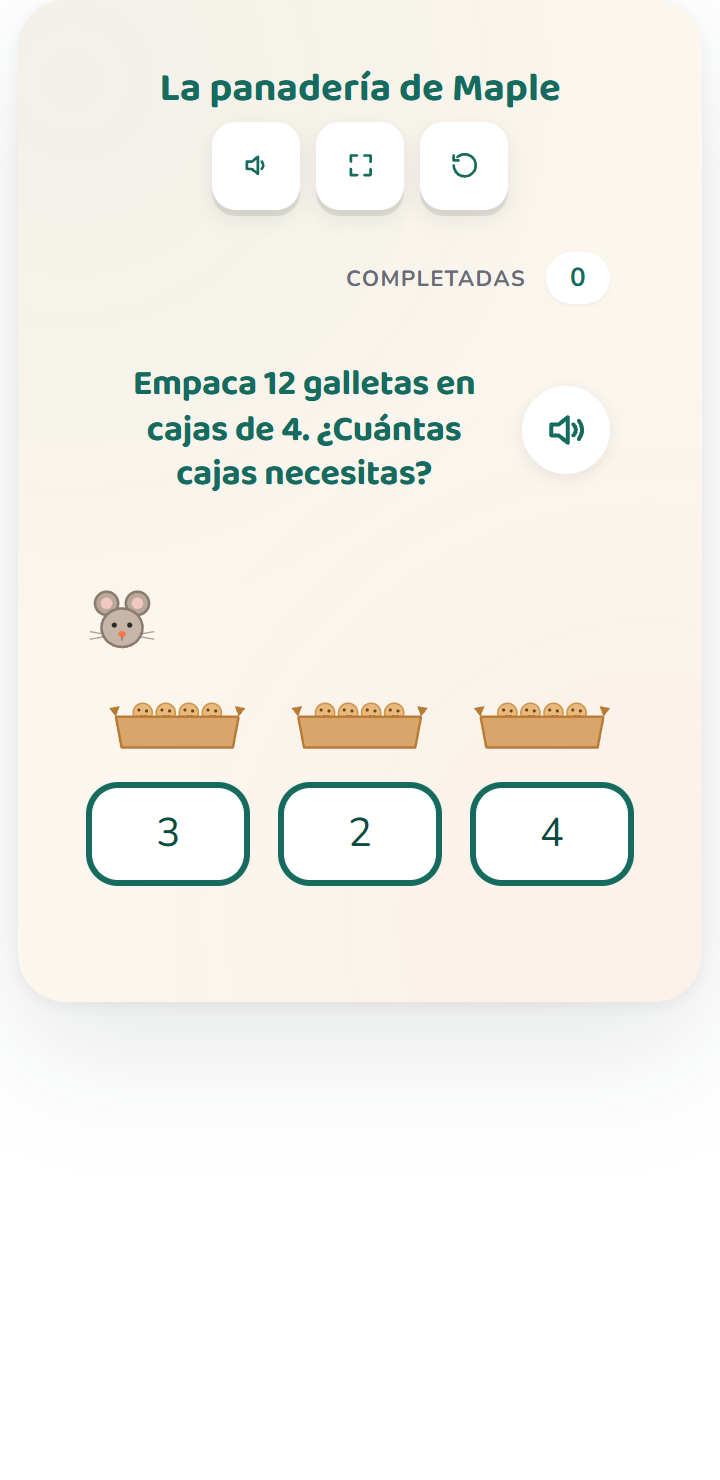
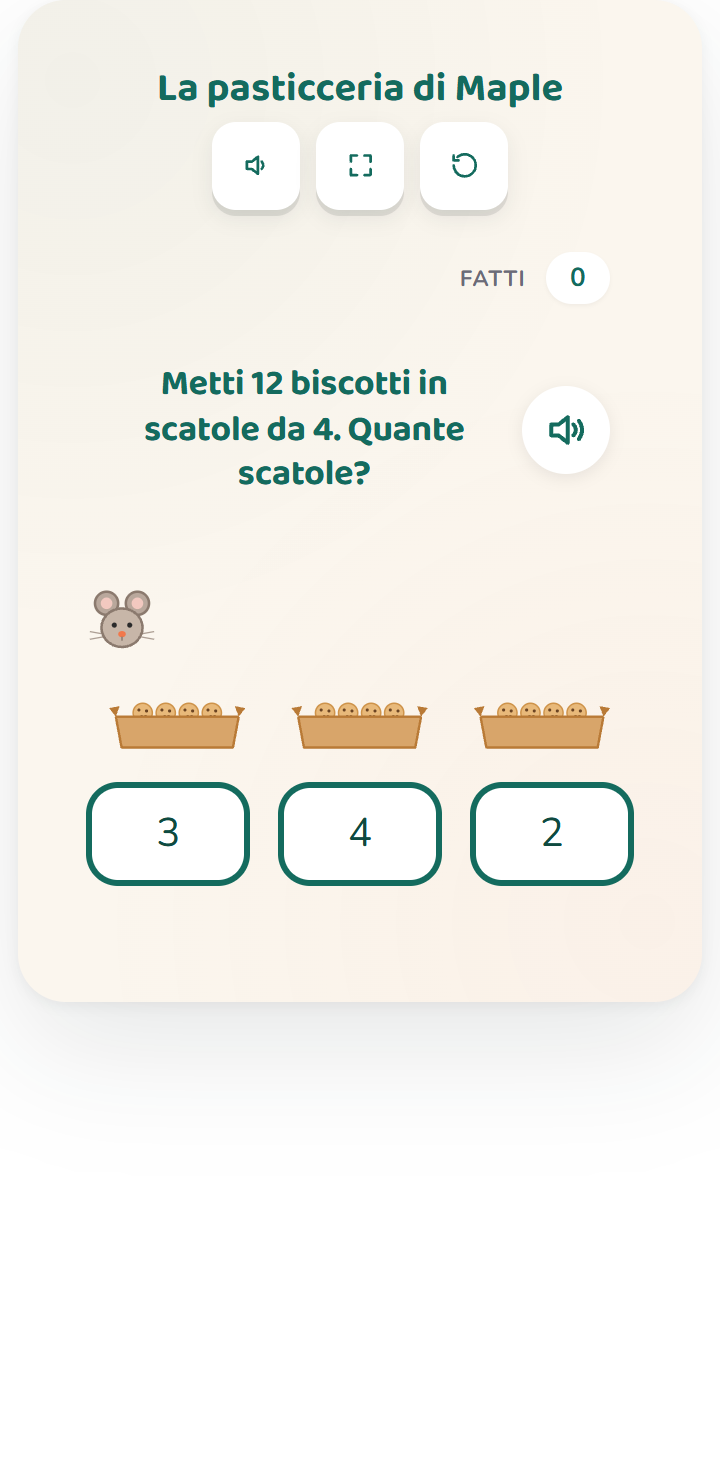
[FEATURE][I18N][IT] maple-bakery #39 — La pasticceria di Maple (divisione: reparto e raggruppamento, classe seconda)
3rd it MATH: division as sharing (reparto) + grouping (raggruppamento), the division
twin of echo-grove. Maple the mouse divides cookies; child reads the picture, counts,
taps a number. Rebuilt for the Indicazioni nazionali. 3-agent native it ensemble.

- Activity-layer only: 0 lines to maple-bakery-core.js / lcs-shell.* / Direction-A CSS.
- L it: (7 keys) + 4 strings it: + slug/page_title/page_intro it. No roundsL10n, no
  audio, no item map (simpler than echo-grove).
- GRADE classe seconda (GRADE_OVERRIDE it:'2') — Italy follows de/fr (mult+div = inverse
  pair, same year), NOT the es/pt native-3 "division-a-year-after-multiplication".
- STRAND «Numeri» AUTO (strand-names.ts, NO override; the pt «Álgebra» trap does not hit it).
- ⭐ «scatole da {n}» reused from echo-grove (cross-activity distributive consistency).
- TITLE «La pasticceria di Maple» (biscotti → pasticcera/pasticceria; NOT «panetteria»
  [bread, pedagogue-flagged] nor «forno»); character «la topolina Maple» (fem).
- 100% apostrophe-free UI strings; «Sì» grave ì; «piene» f-agreement; two meanings kept
  distinct (share «su ogni piatto?» / pack «Quante scatole?»).
- ⚠ howToPlay REWRITTEN for the tap-a-number mechanic (copywriter's drag-to-distribute
  draft did not match the engine). {a}=1 trap moot (all round quotients ≥3).
- LOCAL only — NO deploy (it batch deploys at end).

Verify: 7/7 L + 4/4 strings + tokens + apostrophe-free + scatole-da + piene + quotients≥2 ·
[…]

diff --git a/frontend/app/[locale]/activities/[slug]/page.tsx b/frontend/app/[locale]/activities/[slug]/page.tsx
@@ -91,7 +91,7 @@ const GRADE_OVERRIDE: Record<string, Record<string, string>> = {
   'halfway-harbors.nearest.3-nbt-a-1': { pt: '4' },                      // PT: arredondamento à dezena/centena = BNCC 4º ano (EF04MA cálculo por estimativa e arredondamento), NÃO 3º — graduar pela HABILIDADE, não pelo teto numérico (~1000); de/es/fr herdam o grade 3 nativo, só pt sobe
   'sunny-side-diner.compound-order.l-k-1-f': { fr: '1' },                // FR CP: produire une phrase complète + coordonner deux groupes avec « et » = charnière oral→écrit CP (au-dessus de la production orale GS, en deçà de l'analyse CE1); native 'K'→« Grande section » too low; en Kindergarten unchanged
   'echo-grove.match-the-rune.3-oa-a-1': { de: '2', fr: '2', es: '2', pt: '2', it: '2' },    // Multiplikation als gleiche Gruppen / kleines Einmaleins = DE Klasse 2 (US Grade 3 a year higher). FR CE1 (operator-ruled): le sens de la multiplication (groupes égaux, petits nombres, avant les tables) = attendu CE1 (CE2 = tables + multiplication posée); native '3'→CE2 too high; de Klasse-2 ≈ fr-CE1; twin of maple-bakery division-sens; « Nombres et calcul » auto-map → NO STRAND override. ES: la multiplicación como grupos iguales / suma de sumandos iguales = 2.º primaria en SEP/NEM (las tablas formales → 3.º); espeja numbers-court/ten-stones es:'2'. Strand auto "Sentido numérico" → NO STRAND override. PT: multiplicação como grupos iguais / adição de parcelas iguais = BNCC 2º ano (EF02MA07/08) → espelha es; ⚠ PT strand-map auto → "Álgebra" (ERRADO p/ 3.OA no BR) → STRAND override pt:"Números". IT: la moltiplicazione come gruppi uguali / raggruppamenti (numeri piccoli, il SENSO prima delle tabelline) = classe seconda nelle Indicazioni (le tabelline sistematiche = traguardo classe terza); strand auto → «Numeri» (nucleo corretto, NIENTE «Algebra» nella primaria) → NO STRAND override (a differenza di pt)
-  'maple-bakery.share.3-oa-a-2': { de: '2', fr: '2' },                    // Division (Verteilen/Aufteilen, ohne Rest) introduced alongside Einmaleins = DE Klasse 2. FR CE1 (operator-ruled): division-SENS (partage/groupement, petits nombres, sans reste, imagé) = l'approche de la division au CE1 (CE2 formalise le quotient/reste); native '3'→CE2 too high; de Klasse-2 re-grade ≈ fr CE1; « Nombres et calcul » auto-map → NO STRAND override. ES: NO override — en MX la división (reparto/agrupamiento) entra en 3.º primaria, un año DESPUÉS de la multiplicación (#38 echo-grove es:'2'); grado nativo 3 → "3.º de primaria" (asimetría deliberada mult 2.º / div 3.º — NO igualar a echo-grove). Strand auto "Sentido numérico" → NO STRAND override
+  'maple-bakery.share.3-oa-a-2': { de: '2', fr: '2', it: '2' },                    // Division (Verteilen/Aufteilen, ohne Rest) introduced alongside Einmaleins = DE Klasse 2. FR CE1 (operator-ruled): division-SENS (partage/groupement, petits nombres, sans reste, imagé) = l'approche de la division au CE1 (CE2 formalise le quotient/reste); native '3'→CE2 too high; de Klasse-2 re-grade ≈ fr CE1; « Nombres et calcul » auto-map → NO STRAND override. ES: NO override — en MX la división (reparto/agrupamiento) entra en 3.º primaria, un año DESPUÉS de la multiplicación (#38 echo-grove es:'2'); grado nativo 3 → "3.º de primaria" (asimetría deliberada mult 2.º / div 3.º — NO igualar a echo-grove). Strand auto "Sentido numérico" → NO STRAND override. IT: classe seconda — l'Italia segue il pattern de/fr (moltiplicazione e divisione = coppia inversa nello STESSO anno; la divisione [reparto/raggruppamento, senza resto, per immagini] entra nel 2º quadrimestre di classe seconda; la divisione in colonna + il resto = classe terza) → it si UNISCE a de/fr a '2', NON alla asimmetria es/pt native-3; strand auto → «Numeri» (NIENTE «Algebra» nella primaria) → NO STRAND override
   'comet-kangaroo.tens-hundreds.2-nbt-b-8': { de: '3', es: '3', pt: '3' },         // 10/100 mehr-weniger im ZR bis 1000 = DE Klasse 3 (Tausenderraum; Klasse 2 = bis 100). ES: números hasta 1000 / valor posicional de 3 cifras = 3.º primaria en MX; espeja place-value-regroup 2-nbt-b-7 es:'3' (bis-1000 = 3º). PT: valor posicional de 3 algarismos + 10/100 a mais/a menos até 1000 = BNCC 3º ano (EF03MA01/02 números até milhar + composição/valor posicional; EF03MA05 cálculo mental); 2º = até centenas com material manipulável → o campo abstrato até 1000 é o salto 2º→3º. Strand auto-map (NBT→"Números") já correto → SEM STRAND_OVERRIDE pt
   'track-repair.count-to-120.1-nbt-a-1': { de: '2', fr: '1' },            // Orientierung am Zahlenstrahl bis 100 + skip-counting = DE Klasse 2 (ZR bis 20 = Klasse 1); US Grade 1 offset. FR CP (operator-ruled): la ligne numérique + compter en avant/arrière + de 5 en 5 / de 10 en 10 + placer les nombres jusqu'à ~100 = attendus du CP; la France fait 100 au CP (là où l'Allemagne a besoin de Klasse 2 — posy #71 precedent); le franchissement de la centaine (~103) = extension de fin de CP, pas le CE1 (jusqu'à 1000); CP → l'auto-map « Nombres et calcul » est correct → NO fr STRAND override
   'bos-berry-pantry.slingshot-tens.1-nbt-b-2': { de: '2', pt: '2' },       // read/match two-digit Stellenwert (values to 85, multiple tens, ZR bis 100) → DE Klasse 2 (Klasse 1 = ZR bis 20); bundle-bot precedent. PT 2º ano (pedagogue-decisive): valor posicional/SND (unitizing "a crate IS a ten" + função do zero via 40/70) = BNCC EF02MA01/EF02MA04 (2º ano); 1º ano = número-como-quantidade sem valor posicional formal; es/fr introduce dizaines at grade 1 by their own curriculum, BNCC defers
@@ -547,7 +547,7 @@ export default async function ActivityPage({ params }: { params: PageParams }) {
   // applied here to the iframe-loaded wrapper URL (the only un-busted
   // link in the activity-page → mini-tool chain). The wrapper reads
   // only `activity` / `lang` / `embed` params; `v` is harmless to it.
-  const ACTIVITY_WRAPPER_VERSION = '9.491';
+  const ACTIVITY_WRAPPER_VERSION = '9.492';
 
   const iframeSrc =
     `/mini-tools/${row.tool}.html?v=${ACTIVITY_WRAPPER_VERSION}` +

diff --git a/mini tools/maple-bakery-activity.js b/mini tools/maple-bakery-activity.js
@@ -67,6 +67,17 @@
       nPack: 'Conte quantas caixas ficaram cheias.',
       srShare: '{d} biscoitos são repartidos em partes iguais em {n} pratos. Quantos biscoitos há em cada prato? Opções: {choices}.',
       srPack: '{d} biscoitos são embalados em caixas de {n} biscoitos cada. Quantas caixas há? Opções: {choices}.'
+    },
+    // it — native it math ensemble (Indicazioni nazionali, classe seconda): divisione come reparto (piatti) +
+    // raggruppamento («scatole da {n}», reused from echo-grove). 100% apostrophe-free; «Sì» grave ì; «piene» f-agree.
+    it: {
+      win: 'Sì — {note}',
+      winShare: '{a} biscotti su ogni piatto!',
+      winPack: '{a} scatole piene!',
+      nShare: 'Conta i biscotti su UN solo piatto.',
+      nPack: 'Conta quante scatole sono piene.',
+      srShare: '{d} biscotti vengono divisi in parti uguali su {n} piatti. Quanti biscotti ci sono su ogni piatto? Scelte: {choices}.',
+      srPack: '{d} biscotti vengono messi in scatole che contengono {n} biscotti ciascuna. Quante scatole ci sono? Scelte: {choices}.'
     }
   };
   function txt(k, a) {
@@ -134,10 +145,10 @@
   var MapleBakeryActivity = {
     id: 'maple-bakery-activity',
     strings: {
-      title: { en: "Maple's Bakery", de: 'Maples Bäckerei', fr: 'La boulangerie de Maple', es: 'La panadería de Maple', pt: 'A padaria da Maple' },
-      instruction: { en: 'Help Maple the mouse divide the cookies fairly!', de: 'Hilf Maple der Maus, die Kekse gerecht zu verteilen!', fr: 'Aide Maple la souris à partager les biscuits équitablement !', es: '¡Ayuda a Maple, la ratona, a repartir las galletas en partes iguales!', pt: 'Ajude a Maple, a ratinha, a repartir os biscoitos em partes iguais!' },
-      qshare: { en: 'Share {d} cookies onto {n} plates. How many on each plate?', de: 'Verteile {d} Kekse auf {n} Teller. Wie viele liegen auf jedem Teller?', fr: 'Partage {d} biscuits sur {n} assiettes. Combien sur chaque assiette ?', es: 'Reparte {d} galletas en {n} platos. ¿Cuántas hay en cada plato?', pt: 'Reparta {d} biscoitos em {n} pratos. Quantos há em cada prato?' },
-      qpack: { en: 'Pack {d} cookies into boxes of {n}. How many boxes?', de: 'Pack {d} Kekse in Schachteln zu je {n}. Wie viele Schachteln brauchst du?', fr: 'Range {d} biscuits dans des boîtes de {n}. Combien de boîtes ?', es: 'Empaca {d} galletas en cajas de {n}. ¿Cuántas cajas necesitas?', pt: 'Embale {d} biscoitos em caixas de {n}. Quantas caixas você precisa?' }
+      title: { en: "Maple's Bakery", de: 'Maples Bäckerei', fr: 'La boulangerie de Maple', es: 'La panadería de Maple', pt: 'A padaria da Maple', it: 'La pasticceria di Maple' },
+      instruction: { en: 'Help Maple the mouse divide the cookies fairly!', de: 'Hilf Maple der Maus, die Kekse gerecht zu verteilen!', fr: 'Aide Maple la souris à partager les biscuits équitablement !', es: '¡Ayuda a Maple, la ratona, a repartir las galletas en partes iguales!', pt: 'Ajude a Maple, a ratinha, a repartir os biscoitos em partes iguais!', it: 'Aiuta la topolina Maple a dividere i biscotti in parti uguali!' },
+      qshare: { en: 'Share {d} cookies onto {n} plates. How many on each plate?', de: 'Verteile {d} Kekse auf {n} Teller. Wie viele liegen auf jedem Teller?', fr: 'Partage {d} biscuits sur {n} assiettes. Combien sur chaque assiette ?', es: 'Reparte {d} galletas en {n} platos. ¿Cuántas hay en cada plato?', pt: 'Reparta {d} biscoitos em {n} pratos. Quantos há em cada prato?', it: 'Dividi {d} biscotti su {n} piatti. Quanti biscotti su ogni piatto?' },
+      qpack: { en: 'Pack {d} cookies into boxes of {n}. How many boxes?', de: 'Pack {d} Kekse in Schachteln zu je {n}. Wie viele Schachteln brauchst du?', fr: 'Range {d} biscuits dans des boîtes de {n}. Combien de boîtes ?', es: 'Empaca {d} galletas en cajas de {n}. ¿Cuántas cajas necesitas?', pt: 'Embale {d} biscoitos em caixas de {n}. Quantas caixas você precisa?', it: 'Metti {d} biscotti in scatole da {n}. Quante scatole?' }
     },
 
     init: function (api) {

diff --git a/mini tools/maple-bakery-activity.html b/mini tools/maple-bakery-activity.html
@@ -17,7 +17,7 @@
        NOTE: bump ?v=N on EVERY change to maple-bakery-activity.js / -core.js (§A.13.42). -->
   <script src="/mini-tools/lcs-shell.js?v=5"></script>
   <script src="/mini-tools/maple-bakery-core.js?v=1"></script>
-  <script src="/mini-tools/maple-bakery-activity.js?v=5"></script>
+  <script src="/mini-tools/maple-bakery-activity.js?v=6"></script>
   <script>
     LCS.mount(MapleBakeryActivity, { mount: '#lcs-root' });
   </script>
